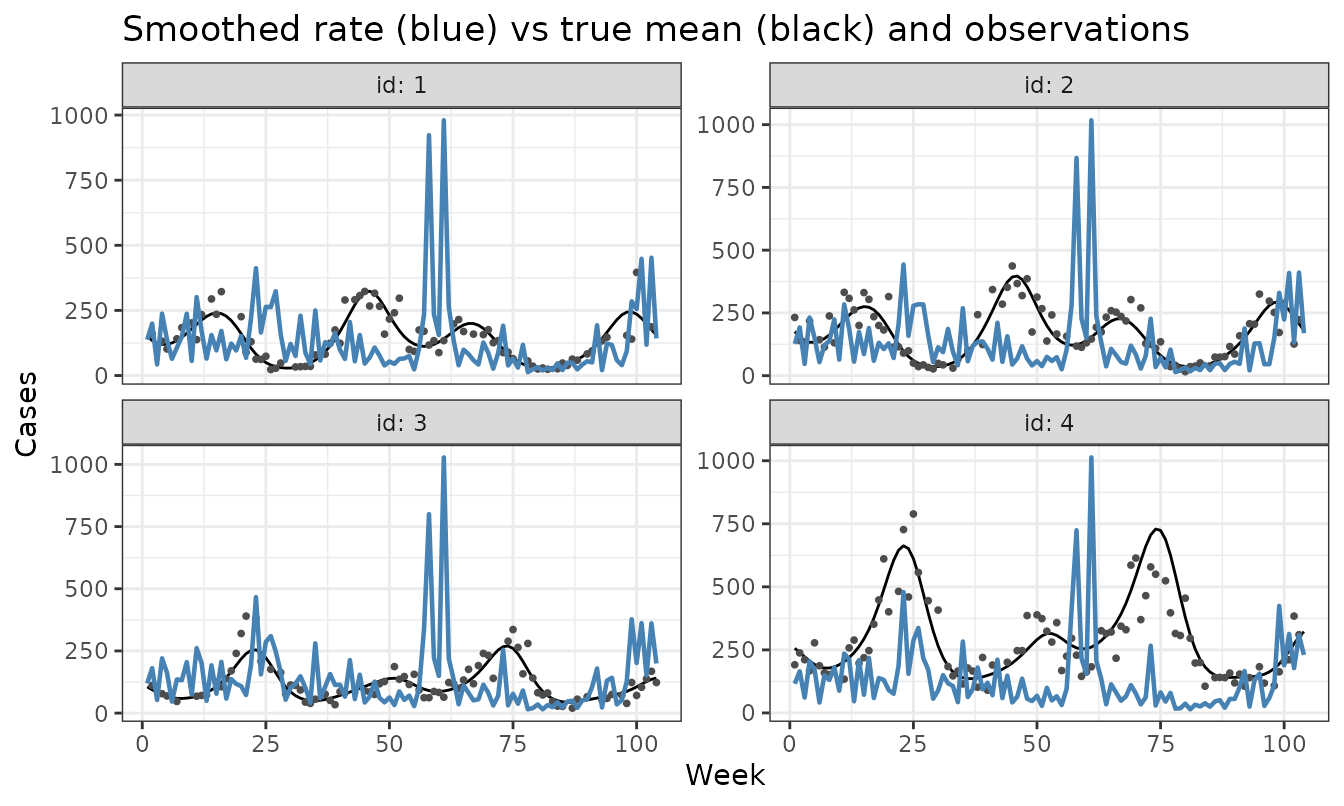
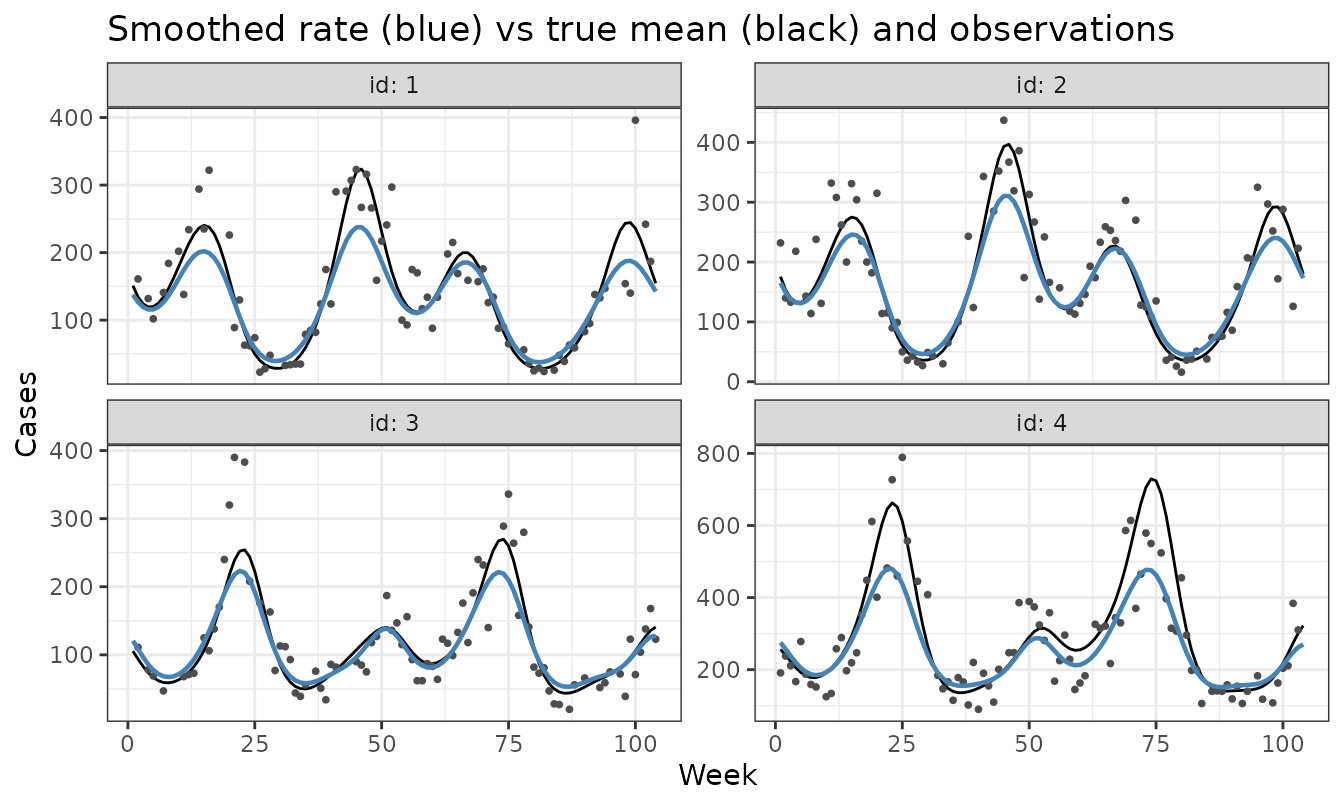
Deploying to gh-pages from @ mrc-ide/weave@a31356f954da320877a2bf4210867039ec1d802d 🚀

diff --git a/articles/fitting-the-model.html b/articles/fitting-the-model.html
@@ -492,8 +492,8 @@ where data is missing.</p>
 <span></span>
 <span><span class="co"># Overlay the smoothed rate (blue) on the truth for the first four sites.</span></span>
 <span><span class="va">pred_df</span> <span class="op">&lt;-</span> <span class="fu"><a href="https://rdrr.io/r/base/data.frame.html" class="external-link">data.frame</a></span><span class="op">(</span></span>
-<span>  id    <span class="op">=</span> <span class="fu"><a href="https://rdrr.io/r/base/rep.html" class="external-link">rep</a></span><span class="op">(</span><span class="fu"><a href="https://rdrr.io/r/base/seq.html" class="external-link">seq_len</a></span><span class="op">(</span><span class="va">n</span><span class="op">)</span>, times <span class="op">=</span> <span class="va">nt</span><span class="op">)</span>,</span>
-<span>  t     <span class="op">=</span> <span class="fu"><a href="https://rdrr.io/r/base/rep.html" class="external-link">rep</a></span><span class="op">(</span><span class="fu"><a href="https://rdrr.io/r/base/seq.html" class="external-link">seq_len</a></span><span class="op">(</span><span class="va">nt</span><span class="op">)</span>, each <span class="op">=</span> <span class="va">n</span><span class="op">)</span>,</span>
+<span>  id    <span class="op">=</span> <span class="fu"><a href="https://rdrr.io/r/base/rep.html" class="external-link">rep</a></span><span class="op">(</span><span class="fu"><a href="https://rdrr.io/r/base/seq.html" class="external-link">seq_len</a></span><span class="op">(</span><span class="va">n</span><span class="op">)</span>, each <span class="op">=</span> <span class="va">nt</span><span class="op">)</span>,   <span class="co"># site-major, time-fastest -- matches</span></span>
+<span>  t     <span class="op">=</span> <span class="fu"><a href="https://rdrr.io/r/base/rep.html" class="external-link">rep</a></span><span class="op">(</span><span class="fu"><a href="https://rdrr.io/r/base/seq.html" class="external-link">seq_len</a></span><span class="op">(</span><span class="va">nt</span><span class="op">)</span>, times <span class="op">=</span> <span class="va">n</span><span class="op">)</span>,  <span class="co"># as.vector(t(lambda_hat)) below</span></span>
 <span>  lhat  <span class="op">=</span> <span class="fu"><a href="https://rdrr.io/r/base/vector.html" class="external-link">as.vector</a></span><span class="op">(</span><span class="fu"><a href="https://rdrr.io/r/base/t.html" class="external-link">t</a></span><span class="op">(</span><span class="va">lambda_hat</span><span class="op">)</span><span class="op">)</span></span>
 <span><span class="op">)</span></span>
 <span><span class="fu"><a href="https://ggplot2.tidyverse.org/reference/ggplot.html" class="external-link">ggplot</a></span><span class="op">(</span><span class="op">)</span> <span class="op">+</span></span>

diff --git a/articles/fitting-the-model.md b/articles/fitting-the-model.md
@@ -396,8 +396,8 @@ lambda_hat <- gp_smoother(obs_data, coordinates, est, n, nt, period)
 
 # Overlay the smoothed rate (blue) on the truth for the first four sites.
 pred_df <- data.frame(
-  id    = rep(seq_len(n), times = nt),
-  t     = rep(seq_len(nt), each = n),
+  id    = rep(seq_len(n), each = nt),   # site-major, time-fastest -- matches
+  t     = rep(seq_len(nt), times = n),  # as.vector(t(lambda_hat)) below
   lhat  = as.vector(t(lambda_hat))
 )
 ggplot() +
